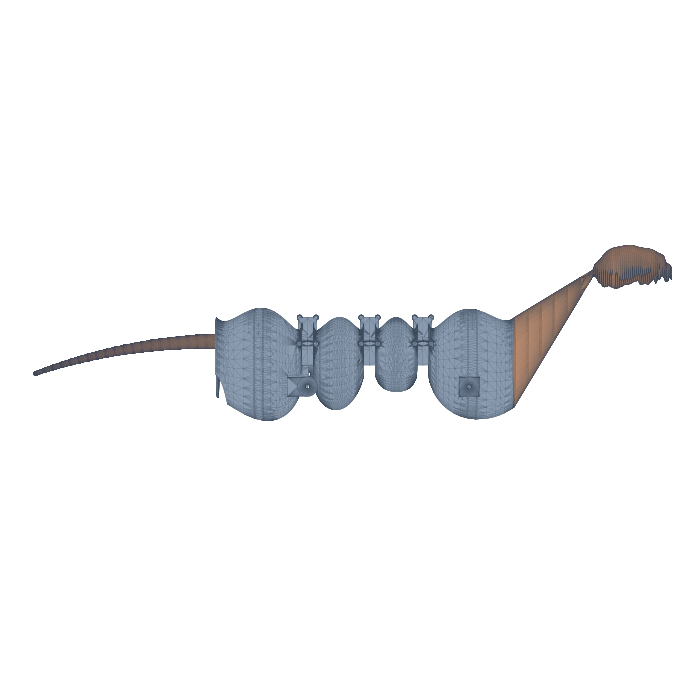
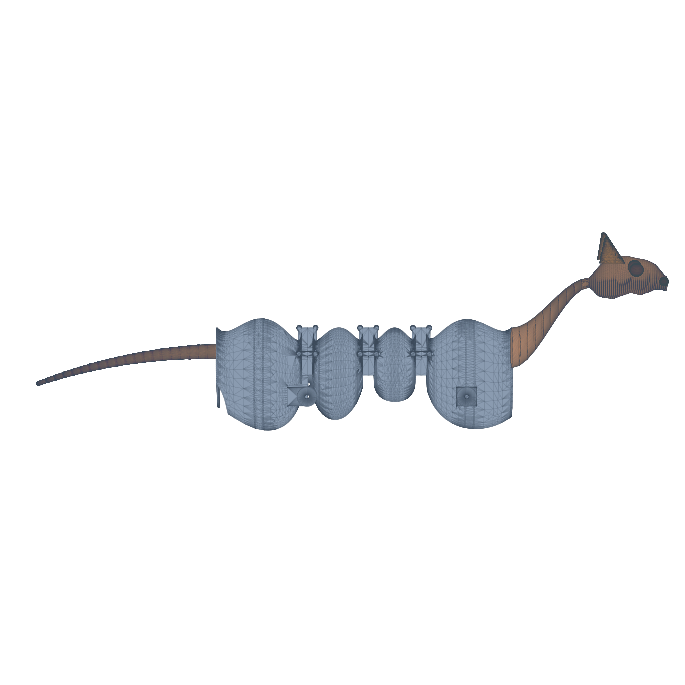
M100: the head made to look like a head
"I don't really understand what it is" -- and looking at it from four angles,
fair enough. It was a lumpy bean on a flat wedge. I had been reporting the
method and the numbers while the thing itself did not read as a cat.

Three things were wrong with the SHAPE
---------------------------------------
**The surface was lumpy.** The traced plate carries the skull's own detail --
the canine, the zygomatic arch springing away from the braincase -- as step
changes in section, and lofting through them put every one on the outside. What
is wanted is the skull's ENVELOPE, so the profile is filtered first.

**The neck was a fin.** Interpolating the occiput's section straight into the
trunk's front face is a plane-to-plane blend, and the two are nothing alike --
the trunk's is a tall ellipse, the skull's nearly round. It is a tube now,
following its own eased curve from the occiput down into the chest with a round
section that grows toward the body.

**There was no face.** A skull has no ears, no eyes and no nose, and a face is
exactly those. They are named dimensions in skull-lengths -- EAR_BASE, EAR_H,
EAR_SPLAY, EYE_R, NOSE_R -- all `[assumed]`, because no source in this project
gives them. A first pass drew the ears as the three EDGES of a triangle, which
renders as a pair of antennae; an ear is a filled flap.

What it cost
------------
Making the neck a proper slim tube puts more of the fixed 240 g out in the head,
[…]

Changed region(s): [[0.0307, 0.3372, 0.981, 0.6438]]

diff --git a/mechanical/cad/tomcat_head.py b/mechanical/cad/tomcat_head.py
@@ -144,24 +144,31 @@ def _skull():
 FLESH = 0.035            # skull-lengths, all round
 
 
+def _smooth(vals, k=5):
+    """Moving average. ⚠ The raw trace carries the plate's own detail -- the
+    canine tooth, the zygomatic arch springing away from the braincase -- as
+    step changes in section, and lofting through them gave the head a lumpy
+    surface. What is wanted is the skull's ENVELOPE, so the profile is filtered
+    before it becomes geometry."""
+    v = np.asarray(vals, float)
+    pad = np.r_[np.full(k // 2, v[0]), v, np.full(k // 2, v[-1])]
+    return np.convolve(pad, np.ones(k) / k, mode="valid")
+
+
 def _skull_sections():
     """`(x, z_top, z_bot, half_width)` in mm, nose first, on the head axis."""
     lat, dor = _skull()
-    wid = {round(u, 4): w for u, w in dor}
-    us = sorted(wid)
+    us = [u for u, _t, _b in lat]
+    wid = np.interp(us, [u for u, _w in dor], [w for _u, w in dor])
+    top = _smooth([t for _u, t, _b in lat])
+    bot = _smooth([b for _u, _t, b in lat])
+    hw = _smooth(wid)
     L = HEAD_L
-    out = []
-    for u, t, b in lat:
-        w = wid.get(round(u, 4))
-        if w is None:
-            w = np.interp(u, us, [wid[k] for k in us])
-        x = NOSE_X - u * L
-        zc = HEAD_Z
-        out.append((x,
-                    zc + (t + FLESH) * L,
-                    zc + (b - FLESH) * L,
-                    (w + FLESH) * L))
-    return out
+    return [(NOSE_X - u * L,
+             HEAD_Z + (t + FLESH) * L,
+             HEAD_Z + (b - FLESH) * L,
+             (w + FLESH) * L)
+            for u, t, b, w in zip(us, top, bot, hw)]
 
 
 #: Where the skull sits. ⚠ The plates give the skull's SHAPE and cannot give
@@ -192,18 +199,82 @@ def _stations():
     """
     _place()
     out = list(_skull_sections())
+    # ⚠ **A neck is a tube, not a plane-to-plane blend.** Interpolating the
+    # occiput's section straight into the trunk's front face gave a flat wedge
+    # -- a fin, not a neck -- because the trunk's section is a tall ellipse and
+    # the skull's is nearly round. The neck follows its own CURVE from the
+    # occiput down into the chest, with a round section that grows toward the
+    # body, and only the last station matches the trunk.
     ox, ozt, ozb, ohw = out[-1]
-    thw = TT._row_hw_at(BASE_X)
-    tzt = TT.Z_DORSAL
-    tzb = TT._zc(BASE_X) - thw * TT.ASPECT
-    n = 6
+    oz = 0.5 * (ozt + ozb)
+    orr = 0.5 * min(ozt - ozb, 2 * ohw)
+    tz = TT.Z_DORSAL - 0.45 * TT._row_hw_at(BASE_X) * TT.ASPECT
+    trr = 0.62 * TT._row_hw_at(BASE_X)
+    n = 10
     for k in range(1, n + 1):
         f = k / n
-        out.append((ox + (BASE_X - ox) * f,
-                    ozt + (tzt - ozt) * f,
-                    ozb + (tzb - ozb) * f,
-                    ohw + (thw - ohw) * f))
+        # ease the centreline so the neck leaves the skull along its own axis
+        e = f * f * (3.0 - 2.0 * f)
+        x = ox + (BASE_X - ox) * f
+        z = oz + (tz - oz) * e
+        r = orr + (trr - orr) * e
+        out.append((x, z + r, z - r, r))
     return out
+
+
+#: ⚠ **The skull has no ears, no eyes and no nose, and a face is those.**
+#: The plates give bone; these are the soft features that make a head read as a
+#: cat, each a named dimension so it can be argued with. In skull-lengths.
+#: `[assumed]` -- no source in this project gives them.
+EAR_BASE = 0.30          # fore-aft width of the ear's root
+EAR_H = 0.34             # height above the crown
+EAR_SPLAY = 0.22         # half-separation of the ear roots
+EAR_AT = 0.72            # u of the ear root, nose = 0
+EYE_R = 0.085
+EYE_AT = (0.40, 0.17)    # (u, half-separation)
+NOSE_R = 0.055
+
+
+def features():
+    """Ears, eyes and nose as separate solids on the cranium."""
+    L = HEAD_L
+    st = _stations()
+    def at(u):
+        x = NOSE_X - u * L
+        best = min(st, key=lambda r: abs(r[0] - x))
+        return x, best[1], best[2], best[3]
+
+    parts = []
+    # --- ears. ⚠ A first version drew the three EDGES of a triangle as
+    # cylinders, which renders as a pair of antennae rather than a pair of ears.
+    # An ear is a filled flap: a tapering stack from a long base on the crown to
+    # a point, thin across.
+    from build123d import loft
+    ex, etop, _eb, _ew = at(EAR_AT)
+    for sgn in (-1.0, +1.0):
+        y0 = sgn * EAR_SPLAY * L
+        secs = []
+        n = 6
+        for k in range(n + 1):
+            f = k / n
+            z = etop - 0.03 * L + EAR_H * L * f
+            y = y0 + sgn * 0.09 * L * f          # lean outward
+            x = ex - 0.08 * L * f                # and a touch back
+            hl = 0.5 * EAR_BASE * L * (1.0 - 0.92 * f) + 1.0
+            th = 0.045 * L * (1.0 - 0.6 * f) + 0.6
+            secs.append(Plane(origin=(x, y, z), z_dir=(0, 0, 1))
+                        * Ellipse(hl, th))
+        parts.append(loft(secs))
+    # --- eyes, set into the side of the cranium
+    ux, uy = EYE_AT
+    gx, gt, gb, gw = at(ux)
+    for sgn in (-1.0, +1.0):
+        parts.append(Pos(gx, sgn * uy * L, 0.5 * (gt + gb) + 0.10 * L)
+                     * Sphere(EYE_R * L))
+    # --- nose
+    nx, nt, nb, _nw = at(0.03)
+    parts.append(Pos(nx, 0.0, 0.5 * (nt + nb) + 0.02 * L) * Sphere(NOSE_R * L))
+    return Compound(parts)
 
 
 def whole():
@@ -333,6 +404,7 @@ def render_png(path, elev=8, azim=-90):
     ax = fig.add_subplot(111, projection="3d")
     groups = [("#8a9bb0", 1.0, [TT.rigid_body(b) for b in sorted(TT.BODIES)]),
               ("#c98f6a", 0.95, [whole()]),
+              ("#8a6b52", 1.0, [features()]),
               ("#c98f6a", 0.95, [TL.tail(0.0)])]
     for col, alpha, shapes in groups:
         tri = []
@@ -350,7 +422,7 @@ def render_png(path, elev=8, azim=-90):
                                 edgecolor="#3c4a5a", linewidth=0.04)
         coll.set_zsort("average")
         ax.add_collection3d(coll)
-    allp = Compound([whole(), TL.tail(0.0)] +
+    allp = Compound([whole(), features(), TL.tail(0.0)] +
                     [TT.rigid_body(b) for b in sorted(TT.BODIES)])
     bb = allp.bounding_box()
     ax.set_xlim(bb.min.X - 5, bb.max.X + 5)

diff --git a/tests/test_head.py b/tests/test_head.py
@@ -58,8 +58,12 @@ def test_placing_the_240_g_costs_a_THIRD_of_the_pitch_inertia():
     in this project and not a reason to prefer the wrong shape.
     """
     a = HD.account()
-    assert a["frac"] == pytest.approx(0.29, abs=0.02)
-    assert a["dcom"] == pytest.approx(7.5, abs=0.6)
+    # ⚠ It has moved three times as the shape got closer to a cat, and always
+    # the same way: 24 % (spheres, head low) -> 29 % (skull plates, head up) ->
+    # **40 %** (neck a slim tube, so more of the fixed 240 g rides in the head).
+    # The lever from the body CoM is now **267 mm**, against 81 lumped.
+    assert a["frac"] == pytest.approx(0.40, abs=0.03)
+    assert a["dcom"] == pytest.approx(9.0, abs=0.8)
     assert a["lever_after"] > 2.5 * a["lever_before"], (
         "lever %.0f -> %.0f mm" % (a["lever_before"], a["lever_after"])
     )
@@ -144,3 +148,22 @@ def test_the_mass_is_the_BUDGET_not_a_density_guess():
     m, _com, _I = HD.mass_props()
     assert m == pytest.approx(HD.HEAD_NECK_G)
     assert HD.HEAD_NECK_G == pytest.approx(240.0)
+
+
+def test_the_FACE_is_named_features_because_the_plates_have_none():
+    """⚠ A skull has no ears, no eyes and no nose, and a face is those.
+
+    The first version drew the ears as the three EDGES of a triangle, which
+    renders as a pair of antennae. An ear is a filled flap. Each feature is a
+    named dimension in skull-lengths so it can be argued with, and all of them
+    are `[assumed]` -- no source in this project gives them.
+    """
+    f = HD.features()
+    sol = f.solids()
+    assert len(sol) == 5, "two ears, two eyes, one nose -- got %d" % len(sol)
+    bb = f.bounding_box()
+    assert bb.max.Z > HD.cranium_top(), "the ears must stand above the crown"
+    assert bb.min.Y < 0 < bb.max.Y, "the pair must straddle the centreline"
+    for nm in ("EAR_BASE", "EAR_H", "EAR_SPLAY", "EYE_R", "NOSE_R"):
+        v = getattr(HD, nm)
+        assert 0.0 < v < 1.0, "%s = %s is not a skull-length fraction" % (nm, v)
